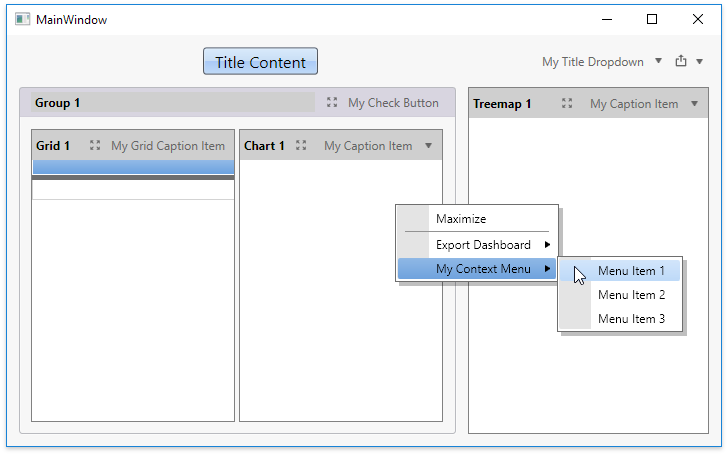
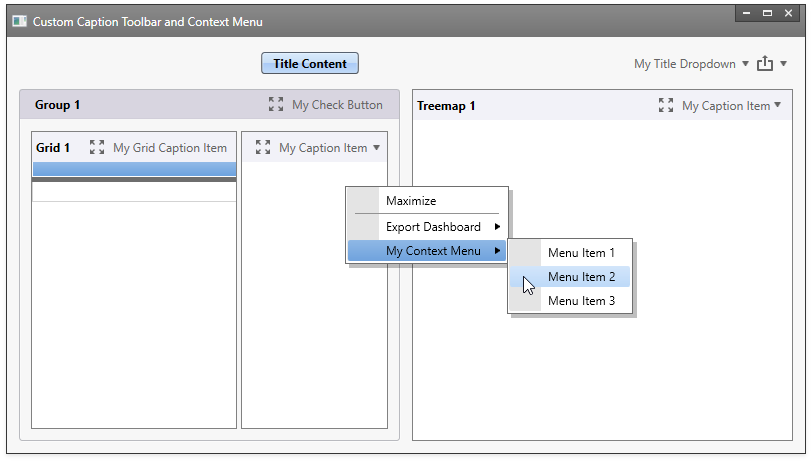
update 19.1

Changed region(s): [[0.0, 0.0, 0.9973, 0.9846], [0.7253, 0.1231, 0.9973, 0.1538]]

diff --git a/CS/WpfDashboardCustomCaptionMenu/MainWindow.xaml b/CS/WpfDashboardCustomCaptionMenu/MainWindow.xaml
@@ -1,25 +1,16 @@
-<Window
-    x:Class="WpfDashboardCustomCaptionMenu.MainWindow"
-    xmlns="http://schemas.microsoft.com/winfx/2006/xaml/presentation"
-    xmlns:x="http://schemas.microsoft.com/winfx/2006/xaml"
-    xmlns:d="http://schemas.microsoft.com/expression/blend/2008"
-    xmlns:dx="http://schemas.devexpress.com/winfx/2008/xaml/core"
-    xmlns:dxb="http://schemas.devexpress.com/winfx/2008/xaml/bars"
-    xmlns:dxdash="http://schemas.devexpress.com/winfx/2008/xaml/dashboard"
-    xmlns:dxdasht="http://schemas.devexpress.com/winfx/2008/xaml/dashboard/themekeys"
-    xmlns:mc="http://schemas.openxmlformats.org/markup-compatibility/2006"
-    Width="800"
-    Height="450"
-    mc:Ignorable="d"
-    dx:ThemeManager.ThemeName="LightGray"
-    Title="MainWindow">
+<dx:ThemedWindow x:Class="WpfDashboardCustomCaptionMenu.MainWindow" Width="800" Height="450" mc:Ignorable="d" dx:ThemeManager.ThemeName="LightGray" 
+                 Title="Custom Caption Toolbar and Context Menu" 
+    xmlns:dx="http://schemas.devexpress.com/winfx/2008/xaml/core" 
+    xmlns="http://schemas.microsoft.com/winfx/2006/xaml/presentation" 
+    xmlns:x="http://schemas.microsoft.com/winfx/2006/xaml" 
+    xmlns:d="http://schemas.microsoft.com/expression/blend/2008" 
+    xmlns:dxb="http://schemas.devexpress.com/winfx/2008/xaml/bars" 
+    xmlns:dxdash="http://schemas.devexpress.com/winfx/2008/xaml/dashboard" 
+    xmlns:dxdasht="http://schemas.devexpress.com/winfx/2008/xaml/dashboard/themekeys" 
+    xmlns:mc="http://schemas.openxmlformats.org/markup-compatibility/2006">
 
     <Grid>
-        <dxdash:DashboardControl
-            x:Name="dashboardControl1"
-            TitleAlignment="Center"
-            TitleContent="Title Content"
-            TitleVisibility="Visible">
+        <dxdash:DashboardControl x:Name="dashboardControl1" TitleAlignment="Center" TitleContent="Title Content" TitleVisibility="Visible">
             <dxdash:DashboardControl.TitleContentTemplate>
                 <DataTemplate>
                     <ToggleButton Content="{Binding}" />
@@ -141,4 +132,4 @@
         </dxdash:DashboardControl>
     </Grid>
 
-</Window>
+</dx:ThemedWindow>

diff --git a/CS/WpfDashboardCustomCaptionMenu/MainWindow.xaml.cs b/CS/WpfDashboardCustomCaptionMenu/MainWindow.xaml.cs
@@ -6,7 +6,7 @@ namespace WpfDashboardCustomCaptionMenu
     /// <summary>
     /// Interaction logic for MainWindow.xaml
     /// </summary>
-    public partial class MainWindow : Window
+    public partial class MainWindow : DevExpress.Xpf.Core.ThemedWindow
     {
         public MainWindow()
         {

diff --git a/Readme.md b/Readme.md
@@ -1,9 +1,9 @@
-# How to add custom buttons and menu elements to dashboard item captions
+# How to Customize the Caption and Context Menu of a Dashboard Item
 
 This example demonstrates how to apply the **CaptionCustomizationsTemplate** and **ContextMenuCustomizationsTemplate** templates to customize the caption toolbar and context menu.
 
 
-![](https://github.com/DevExpress-Examples/wpf-dashboard-how-to-add-custom-caption-menu/blob/18.1.7%2B/images/wpf-dashboard-how-to-add-custom-caption-menu.png)
+![screenshot](images/wpf-dashboard-how-to-add-custom-caption-menu.png)
 
 The following properties are used:
 - [DashboardControl.TitleContent](https://docs.devexpress.com/Dashboard/DevExpress.DashboardWpf.DashboardControl.TitleContent) to specify a title text;
